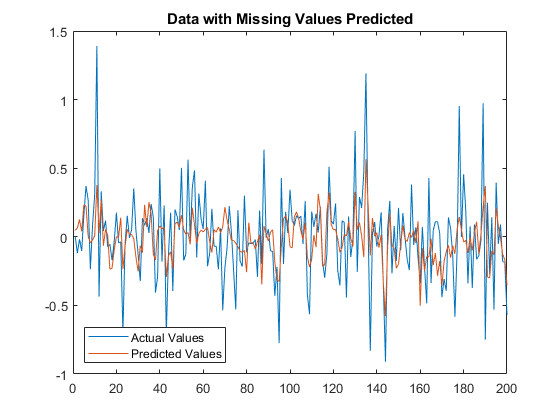
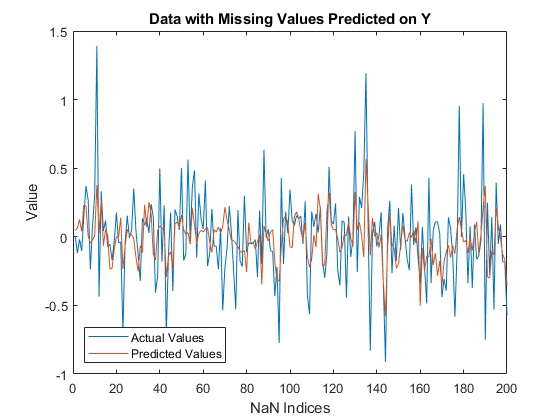
one

Changed region(s): [[0.2429, 0.031, 0.7893, 0.0619], [0.425, 0.9595, 0.6071, 0.9905], [0.0304, 0.4333, 0.0911, 0.5262]]

diff --git a/project_1.m b/project_1.m
@@ -88,13 +88,12 @@ total_error = sum((complete(NaN_idx) - missing(NaN_idx)).^2);
 
 figure;
 plot(complete(NaN_idx))
-%title('Complete Data')
 hold on
-
 plot(missing(NaN_idx))
 title('Data with Missing Values Predicted')
+xlabel('NaN Indices')
+ylabel('Value')
 legend({'Actual Values', 'Predicted Values'},'Location','southwest')
-
 
 % Percentage error
 error = sqrt(total_error / length(NaN_idx))
@@ -144,7 +143,9 @@ figure;
 plot(Y_complete(NaN_idx2))
 hold on
 plot(Y_missing(NaN_idx2))
-title('Data with Missing Values Predicted')
+title('Data with Missing Values Predicted on X')
+xlabel('NaN Indices')
+ylabel('Value')
 legend({'Actual Values', 'Predicted Values'},'Location','southwest')
 
 
@@ -164,6 +165,7 @@ complete_data = table.Volume;
 q = 4;
 
 Y_missing = computeLogReturns(data);
+Y_interpolation = computeLogReturns(data);
 Y_complete = computeLogReturns(complete_data);
 
 NaN_idx = find(isnan(Y_missing));
@@ -193,12 +195,27 @@ figure;
 plot(Y_complete(NaN_idx))
 hold on
 plot(Y_missing(NaN_idx))
-title('Data with Missing Values Predicted')
+title('Data with Missing Values Predicted on Y')
+xlabel('NaN Indices')
+ylabel('Value')
 legend({'Actual Values', 'Predicted Values'},'Location','southwest')
 
 
 % Percentage error
 error = sqrt(total_error / length(NaN_idx))
+
+[F,TF] = fillmissing(Y_interpolation,'linear','SamplePoints',1:length(Y_interpolation));
+total_error_interp = sum((Y_complete(NaN_idx) - F(TF)).^2);
+error = sqrt(total_error_interp / length(NaN_idx))
+
+figure;
+plot(Y_complete(NaN_idx))
+hold on
+plot(F(TF))
+title('Data with Interpolation')
+xlabel('NaN Indices')
+ylabel('Value')
+legend({'Actual Values', 'Predicted Values'},'Location','southwest')
 
 %% Functions
 
